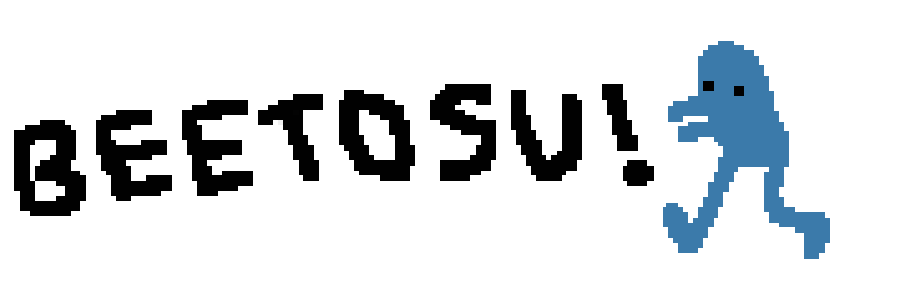
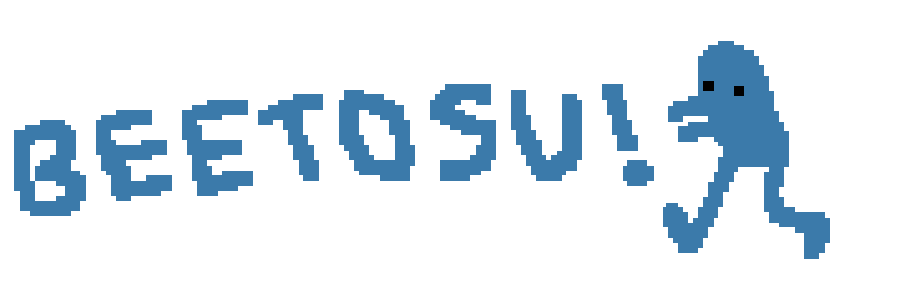
web 2.0
prettier colors

Changed region(s): [[0.0, 0.27, 0.7467, 0.72]]

diff --git a/home.html b/home.html
@@ -6,7 +6,7 @@
 	<link rel="stylesheet" href="https://fonts.googleapis.com/css?family=Arvo">
 	<link rel="shortcut icon" type="image/png" href="pics/favicon.png">
 </head>
-<body>
+<body style="background-color:#FF6140;">
 	<header class="namedrop">
 		<img src="pics/banner.png" />
 	</header>

diff --git a/stylesheet.css b/stylesheet.css
@@ -15,11 +15,13 @@ body {
 
 h2 {
 	font-family: 'Arvo', serif;
+	color: #3B7AAA;
 	text-align: center;
 }
 
 h1 {
 	font-family: 'Arvo', serif;
+	color: #3B7AAA;
 	text-align: center;
 	font-size: 300%;
 }
